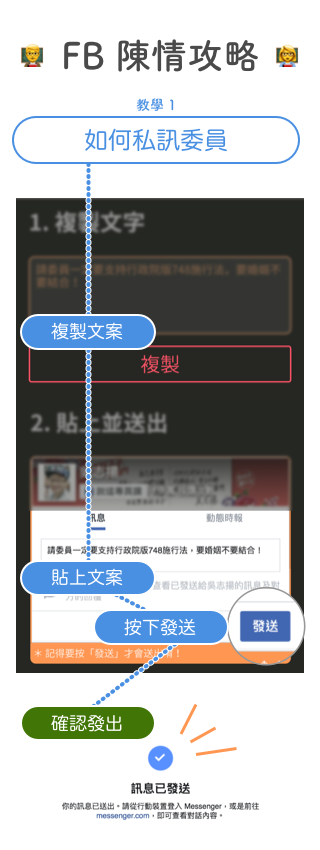
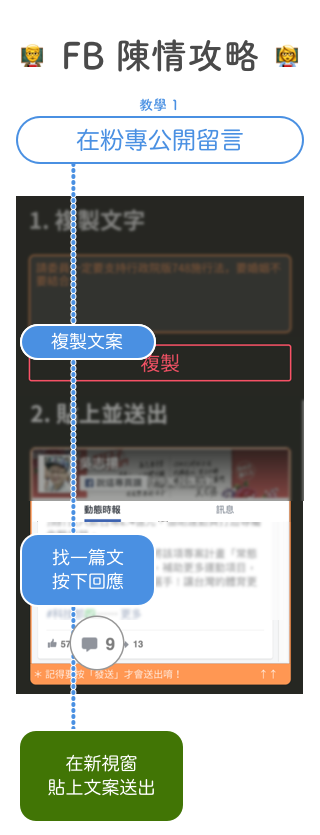
Update SendPageTutorial to prioritize public replies

diff --git a/src/components/SendPageTutorial.js b/src/components/SendPageTutorial.js
@@ -16,7 +16,7 @@ const Backdrop = styled.div`
 `;
 
 const Outside = styled.div`
-  position: absolute;
+  position: fixed;
   z-index: -1;
   left: 0;
   top: 0;
@@ -26,6 +26,8 @@ const Outside = styled.div`
 
 const Dialog = styled.div`
   margin: 0 auto;
+  display: flex; /* avoid collapsing margin with children */
+  flex-flow: column;
   width: 80vw;
   max-width: 320px;
   border-radius: 5px;
@@ -92,7 +94,29 @@ function SendPageTutorial() {
   return (
     <Backdrop>
       <Dialog>
-        <img src={require('../images/p1.png')} alt="FB 陳情教學 1" />
+        <img
+          alt="FB 陳情教學 1"
+          src={require('../images/p1.png')}
+          srcset={`
+            ${require('../images/p1.png')},
+            ${require('../images/p1@2x.png')} 2x`}
+        />
+        <Notice>
+          小撇步：
+          <ul>
+            <li>
+              公開回應會被大眾看見，可以檢視一下自己的訊息，避免給大眾帶來負面印象。
+            </li>
+            <li>留言後，可以順便對他人挺同的回應按讚，增加聲量。</li>
+          </ul>
+        </Notice>
+        <img
+          alt="FB 陳情教學 2"
+          src={require('../images/p2.png')}
+          srcset={`
+          ${require('../images/p2.png')},
+          ${require('../images/p2@2x.png')} 2x`}
+        />
         <Notice>
           如果按下「送出」後出現{' '}
           <img height="20" src={require('../images/confirm.png')} alt="確認" />
@@ -109,16 +133,10 @@ function SendPageTutorial() {
               </a>
               私訊，或者
             </li>
-            <li>
-              改在粉專公開留言（下面有教學
-              <span role="img" aria-label="">
-                👇
-              </span>
-              ）
-            </li>
+            <li>改在粉專公開留言（最上面有教學）</li>
           </ul>
+          另外，有友善的立委建議私訊量可以少一點，請多多在粉專公開留言唷！
         </Notice>
-        <img src={require('../images/p2.png')} alt="FB 陳情教學 2" />
       </Dialog>
       <StartButton onClick={handleToggle}>知道了，開始吧！</StartButton>
       <Outside onClick={handleToggle} />
